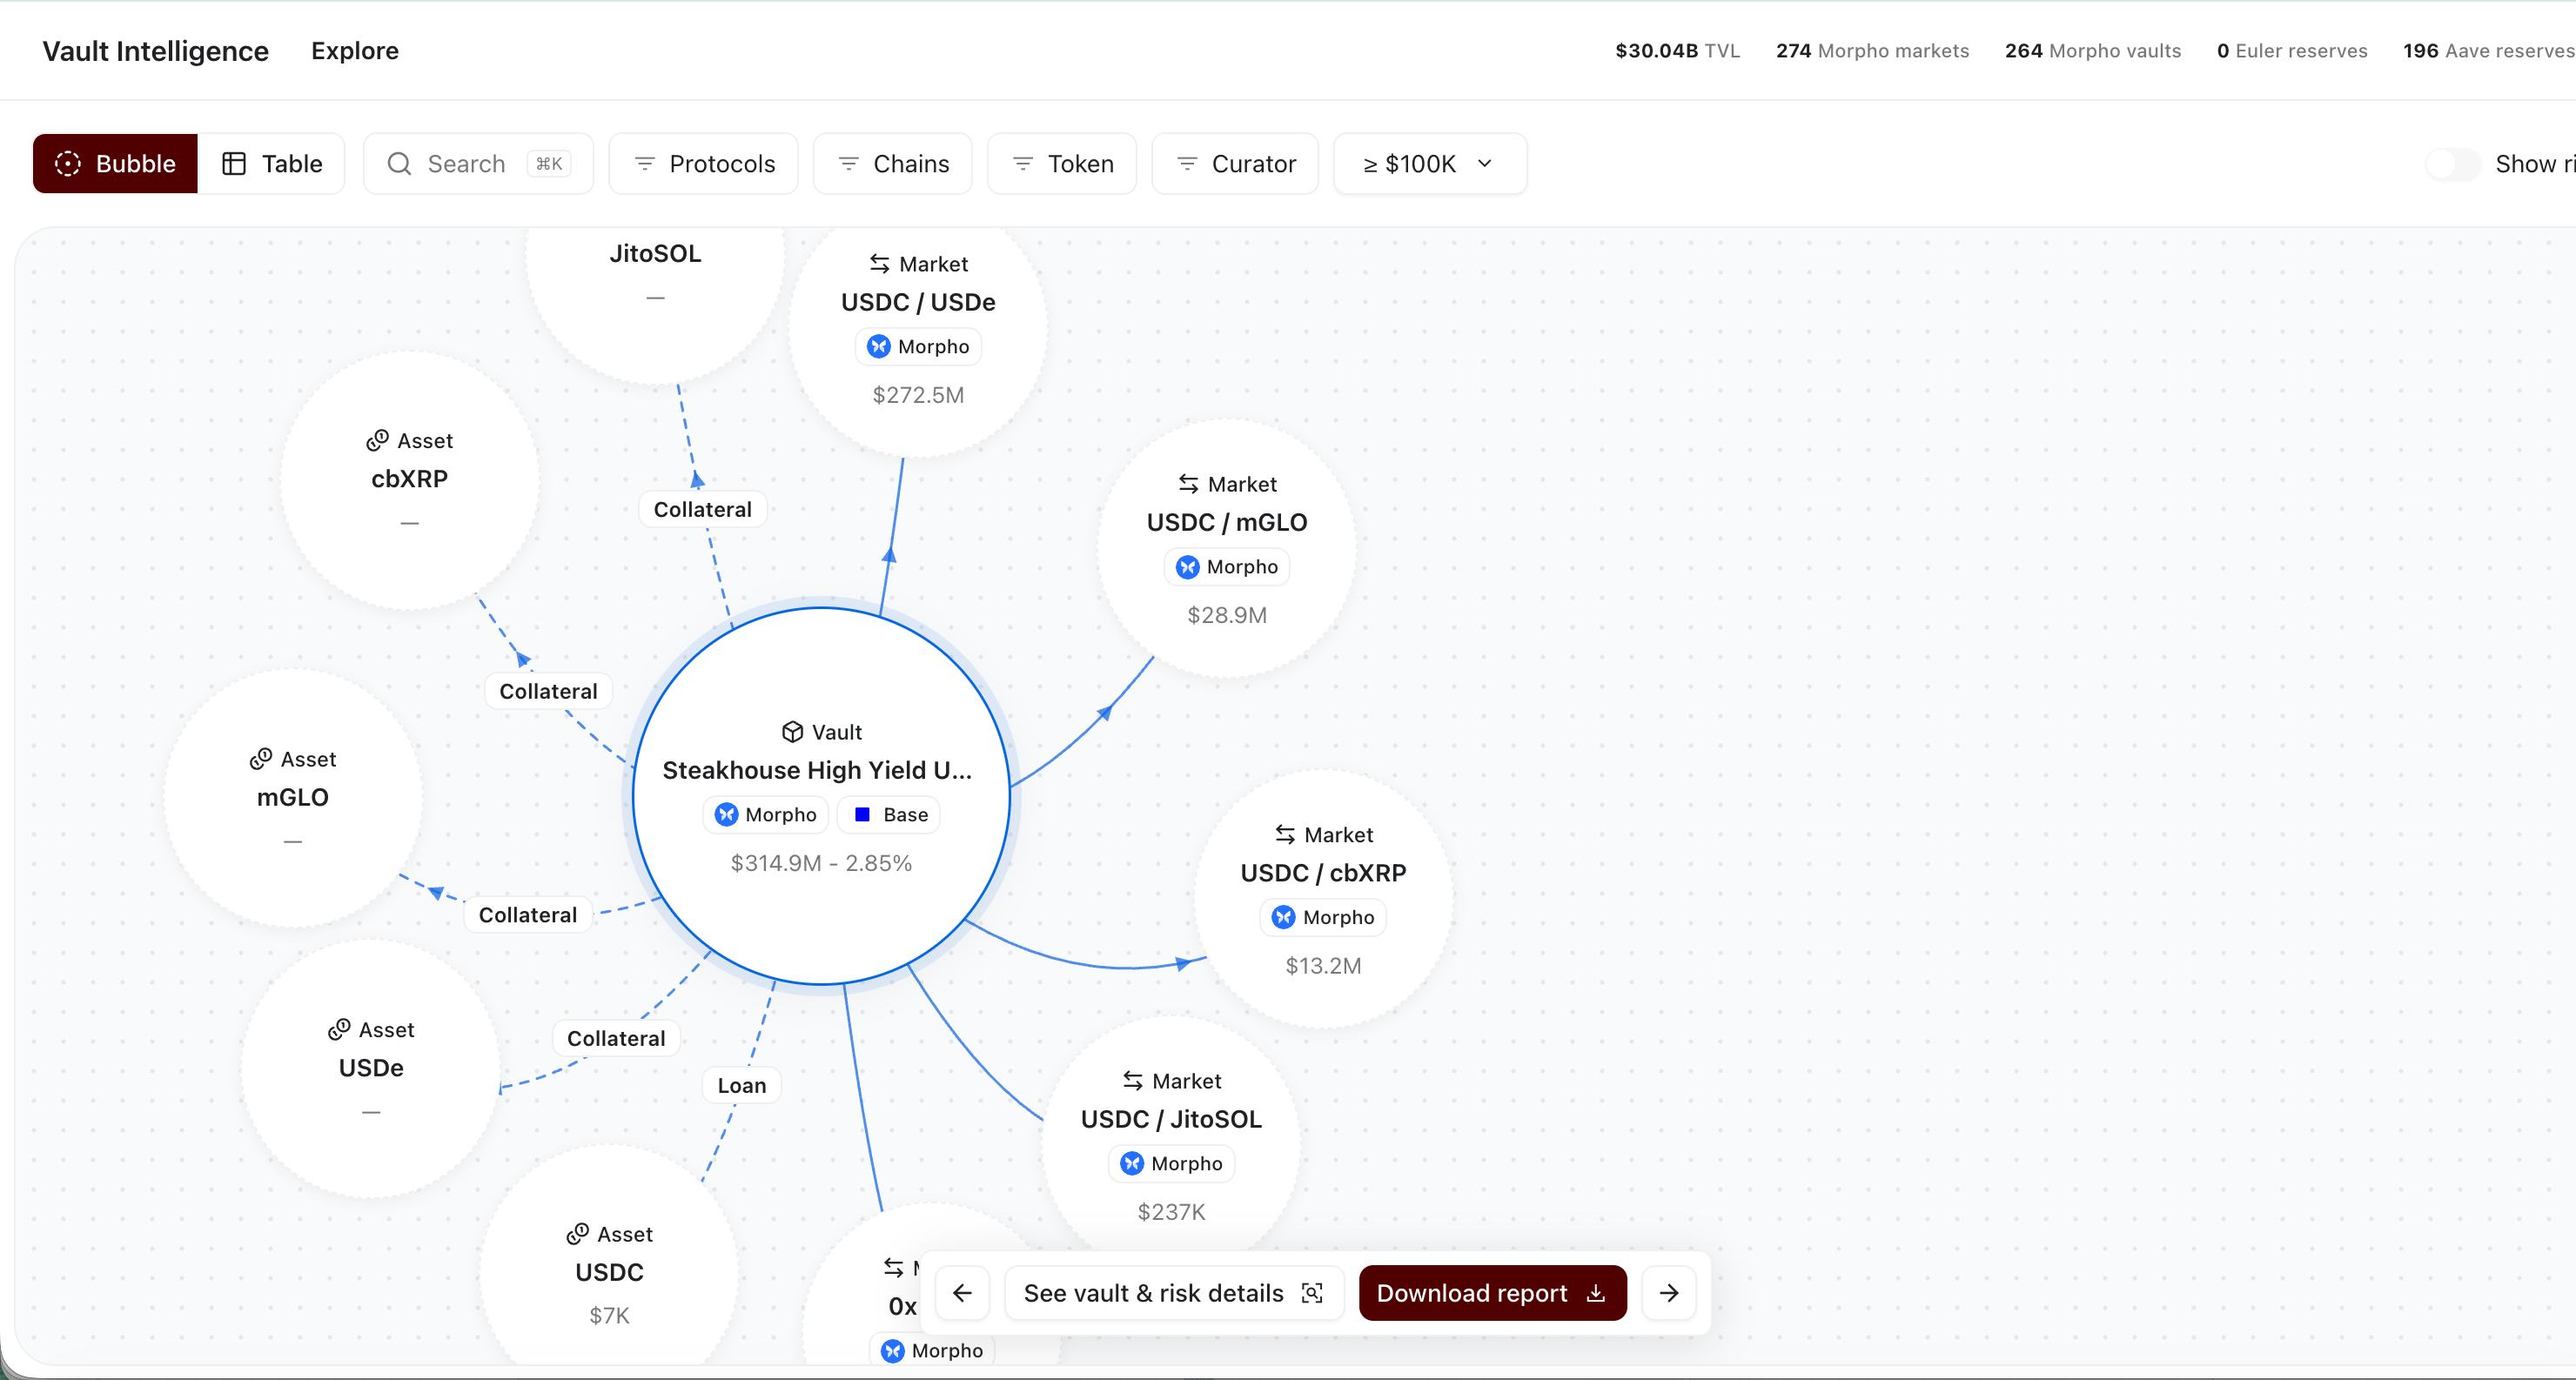
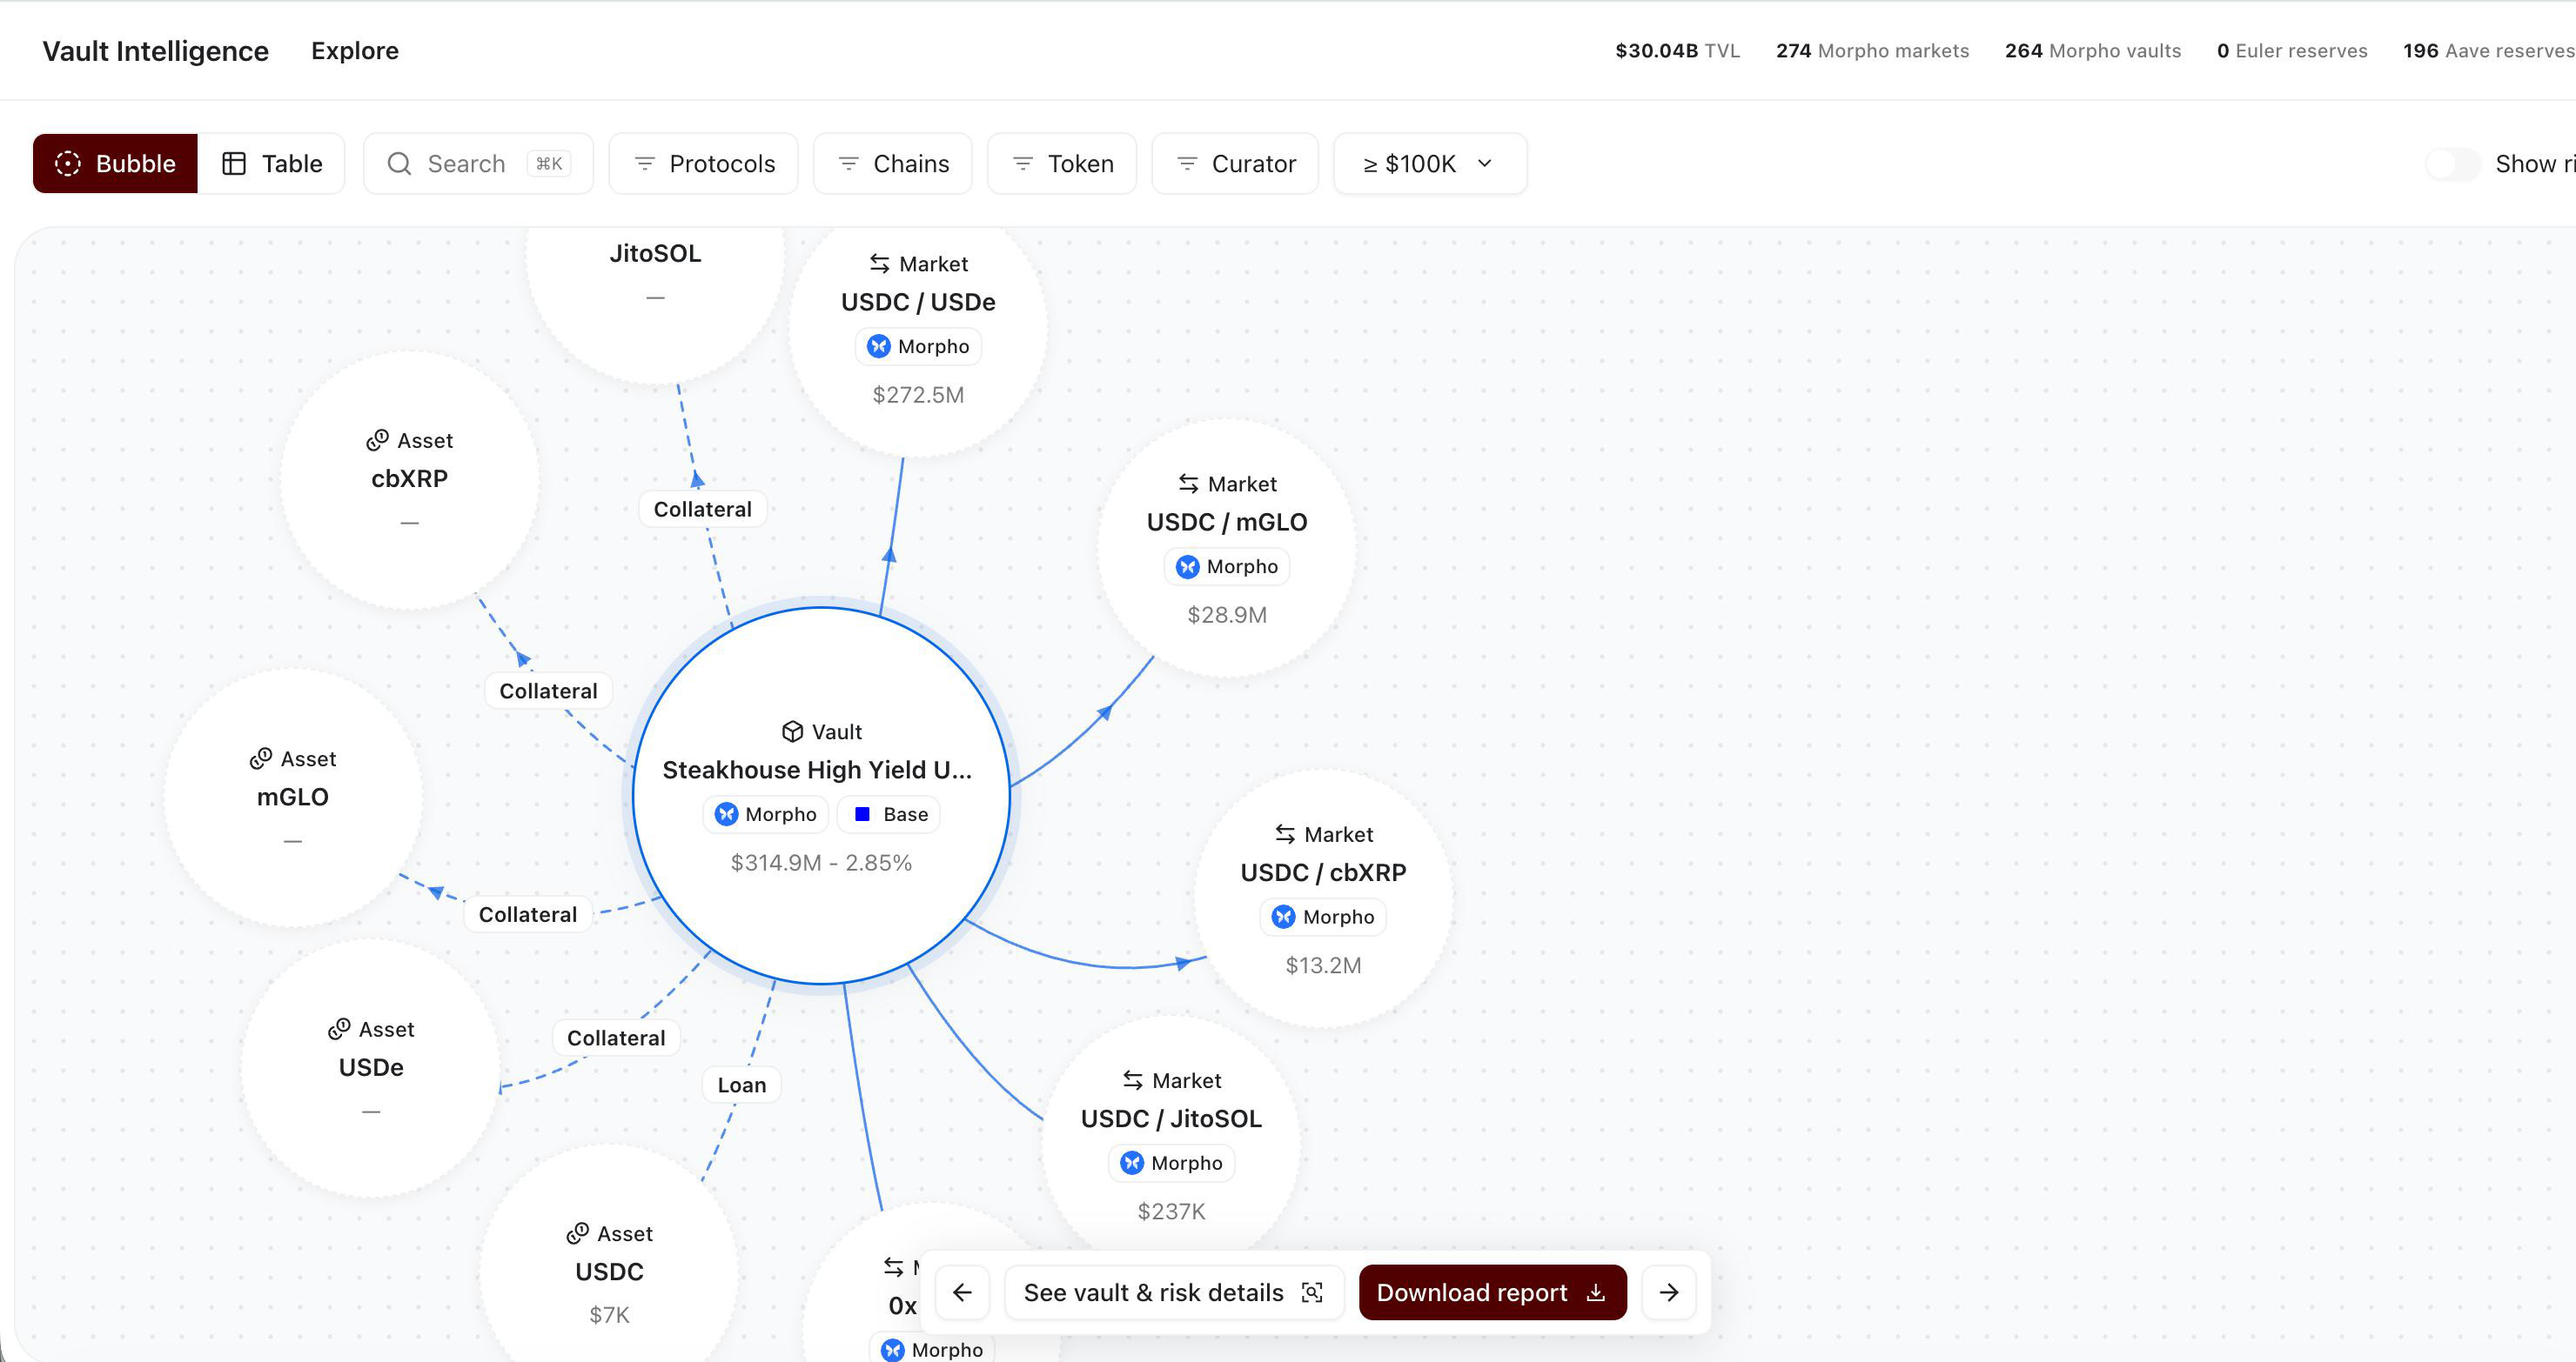
Home: Vault Intelligence first, grey outline on Kiln project visuals

diff --git a/index.html b/index.html
@@ -9,7 +9,7 @@
   <link rel="preconnect" href="https://fonts.googleapis.com" />
   <link rel="preconnect" href="https://fonts.gstatic.com" crossorigin />
   <link href="https://fonts.googleapis.com/css2?family=Inter:wght@400;500;600;700&display=swap" rel="stylesheet" />
-  <link rel="stylesheet" href="styles.css" />
+  <link rel="stylesheet" href="styles.css?v=20261029r" />
 </head>
 <body>
   <main class="page">
@@ -114,24 +114,24 @@
     <section class="section section--wide" aria-labelledby="projects-title">
       <h2 class="section__title" id="projects-title">Projects</h2>
       <div class="projects">
+        <a class="project" href="vault-intelligence.html" aria-label="Vault Intelligence, Kiln / Railnet case study">
+          <span class="project__media project__media--framed">
+            <img src="assets/project-vault.jpg?v=2" alt="Vault Intelligence explorer with a bubble graph of Morpho markets and assets" loading="lazy" />
+          </span>
+          <span class="project__info">
+            <span class="project__title">Vault Intelligence</span>
+            <span class="project__desc">A live map of DeFi exposure, so you can read who's exposed to what in seconds.</span>
+            <span class="project__meta">Design &amp; engineering · Kiln · 2026</span>
+          </span>
+        </a>
         <a class="project" href="yield-portfolio.html" aria-label="Yield Portfolio, Kiln case study">
-          <span class="project__media">
+          <span class="project__media project__media--framed">
             <img src="assets/project-kiln.jpg" alt="Kiln portfolio dashboard showing staking and DeFi balances" loading="lazy" />
           </span>
           <span class="project__info">
             <span class="project__title">Yield Portfolio</span>
             <span class="project__desc">A staking-only admin tool rebuilt into a unified yield platform, staking and DeFi in one view.</span>
             <span class="project__meta">Product design · Kiln · 2025</span>
-          </span>
-        </a>
-        <a class="project" href="vault-intelligence.html" aria-label="Vault Intelligence, Kiln / Railnet case study">
-          <span class="project__media">
-            <img src="assets/project-vault.jpg" alt="Vault Intelligence explorer with a bubble graph of Morpho markets and assets" loading="lazy" />
-          </span>
-          <span class="project__info">
-            <span class="project__title">Vault Intelligence</span>
-            <span class="project__desc">A live map of DeFi exposure, so you can read who's exposed to what in seconds.</span>
-            <span class="project__meta">Design &amp; engineering · Kiln · 2026</span>
           </span>
         </a>
         <a class="project" href="clone.html" aria-label="Clone case study">

diff --git a/styles.css b/styles.css
@@ -2434,3 +2434,9 @@ mark.tbc {
     padding: 20px;
   }
 }
+
+/* Home cards: clean grey outline around the screen */
+.project__media--framed img {
+  border: 1px solid var(--divider);
+  border-right: 0;
+}
